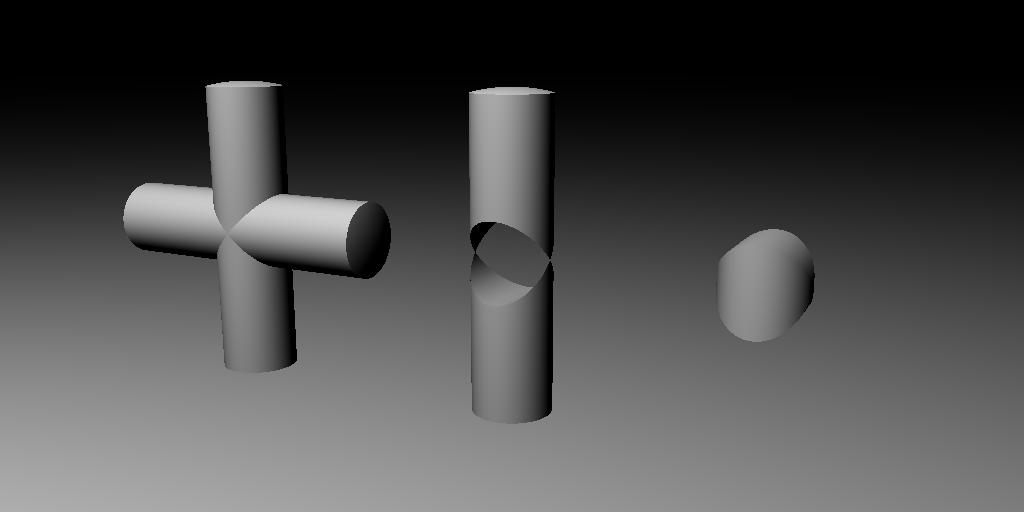
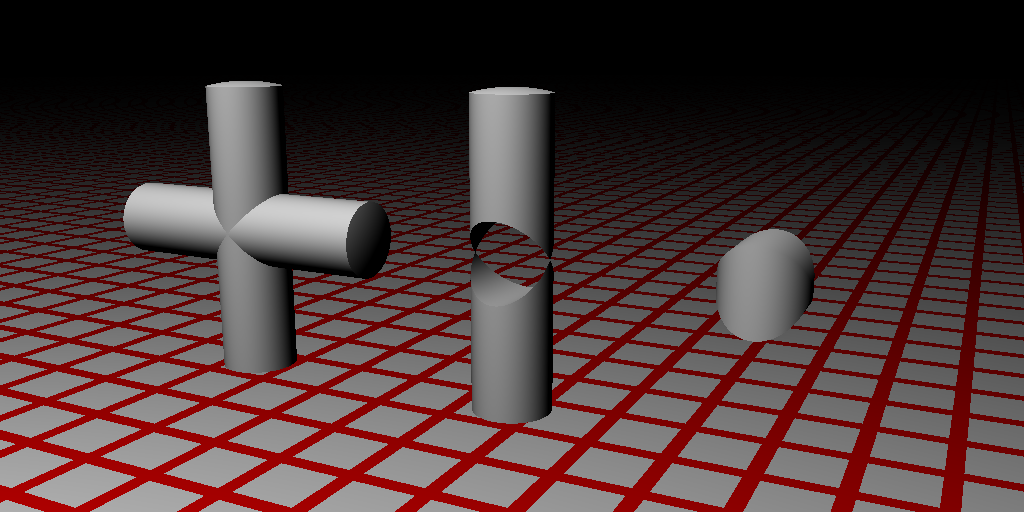
new test scene for mirror reflection, added procedural grid an checkerboard materials

Changed region(s): [[0.0, 0.2812, 1.0, 1.0]]

diff --git a/rt/src/rt/testscenes/MirrorSpheres.java b/rt/src/rt/testscenes/MirrorSpheres.java
@@ -1,0 +1,81 @@
+package rt.testscenes;
+
+import rt.*;
+import rt.cameras.*;
+import rt.films.*;
+import rt.integrators.*;
+import rt.intersectables.*;
+import rt.lightsources.*;
+import rt.materials.*;
+import rt.samplers.*;
+import rt.tonemappers.*;
+
+import javax.vecmath.*;
+
+/**
+ * Test scene for CSG cylinders and spheres.
+ */
+public class MirrorSpheres extends Scene {
+		
+	public MirrorSpheres()
+	{
+		// Output file name
+		outputFilename = new String("../output/testscenes/MirrorSpheres");
+		
+		// Image width and height in pixels
+		width = 1024;
+		height = 512;
+		
+		// Number of samples per pixel
+		SPP = 1;
+		
+		// Specify which camera, film, and tonemapper to use
+		Vector3f eye = new Vector3f(5.f, 2.5f, 10.f);
+		Vector3f lookAt = new Vector3f(0.f, 0.f, 0.f);
+		Vector3f up = new Vector3f(0.f, 1.f, 0.f);
+		float fov = 20.f;
+		float aspect = 2.f;
+		camera = new PinholeCamera(eye, lookAt, up, fov, aspect, width, height);
+		film = new BoxFilterFilm(width, height);
+		tonemapper = new ClampTonemapper();
+		
+		// Specify which integrator and sampler to use
+		integratorFactory = new WhittedIntegratorFactory();
+		samplerFactory = new OneSamplerFactory();
+		
+		// Three spheres
+		Matrix4f trafo = new Matrix4f();
+		trafo.setIdentity();
+		Sphere sphere1 = new Sphere();
+		// The BlinnPlusMirror material is a sum of Blinn and a mirror
+		// The parameters are kd, ks, shininess (for Blinn) and mirror reflectivity (for the mirror)
+		sphere1.material = new BlinnPlusMirror(new Spectrum(0.f,0.f,0.75f), new Spectrum(0.01f,0.01f,0.01f), 20.f, new Spectrum(0.5f,0.5f,0.5f));
+		trafo.setTranslation(new Vector3f(2.f,0.f,0.f));
+		
+		Sphere sphere2 = new Sphere();
+		sphere2.material = new BlinnPlusMirror(new Spectrum(0.f,0.75f,0.f), new Spectrum(0.01f,0.01f,0.01f), 20.f, new Spectrum(0.5f,0.5f,0.5f));
+		Instance sphere2Instance = new Instance(sphere2, trafo);
+		
+		trafo.setTranslation(new Vector3f(-2.f,0.f,0.f));
+		Sphere sphere3 = new Sphere();
+		sphere3.material = new BlinnPlusMirror(new Spectrum(0.75f,0.f,0.f), new Spectrum(0.01f,0.01f,0.01f), 20.f, new Spectrum(0.5f,0.5f,0.5f));
+		Instance sphere3Instance = new Instance(sphere3, trafo);
+		
+		// Ground plane
+		Plane plane = new Plane(new Vector3f(0.f, 1.f, 0.f), 1.f);
+		plane.material = new XYZCheckerboard();
+		
+		// Add objects to scene
+		IntersectableList sceneObjects = new IntersectableList();
+		sceneObjects.add(sphere1);
+		sceneObjects.add(sphere2Instance);
+		sceneObjects.add(sphere3Instance);
+		sceneObjects.add(plane);
+		root = sceneObjects;
+			
+		// Light source, relatively far away but strong
+		LightGeometry pointLight = new PointLight(new Vector3f(0.f, 20.f, 20.f), new Spectrum(2500.f, 2500.f, 2500.f));
+		lightList = new LightList();
+		lightList.add(pointLight);
+	}
+}

diff --git a/rt/src/rt/materials/XYZGrid.java b/rt/src/rt/materials/XYZGrid.java
@@ -1,0 +1,71 @@
+package rt.materials;
+
+import javax.vecmath.Vector3f;
+
+import rt.HitRecord;
+import rt.Spectrum;
+import rt.Material.ShadingSample;
+
+/**
+ * A procedural grid along the XYZ axes.
+ */
+public class XYZGrid extends Diffuse {
+
+	private float thickness;
+	private Spectrum lineColor;
+	private Spectrum tileColor;
+	private Vector3f shift;
+	private float scale;
+	
+	public XYZGrid(Spectrum lineColor, Spectrum tileColor, float thickness)
+	{
+		super(new Spectrum(1.f, 1.f, 1.f));
+		this.lineColor = lineColor;
+		this.tileColor = tileColor;
+		this.thickness = thickness;
+		this.shift = new Vector3f(0.f, 0.f, 0.f);
+		this.scale = 1.f;
+	}
+	
+	public XYZGrid(Spectrum lineColor, Spectrum tileColor, float thickness, Vector3f shift)
+	{
+		this(lineColor, tileColor, thickness);
+		this.shift = new Vector3f(shift);
+		this.scale = 1.f;
+	}
+	
+	public XYZGrid(Spectrum lineColor, Spectrum tileColor, float thickness, Vector3f shift, float scale)
+	{
+		this(lineColor, tileColor, thickness, shift);
+		this.scale = scale;
+	}
+	
+	private Spectrum getColor(HitRecord hitRecord) {
+		
+		if(Math.abs((shift.x + hitRecord.position.x)/scale - Math.round(hitRecord.position.x/scale))<thickness/scale || 
+			Math.abs((shift.y + hitRecord.position.y)/scale - Math.round(hitRecord.position.y/scale))<thickness/scale ||
+			Math.abs((shift.z + hitRecord.position.z)/scale - Math.round(hitRecord.position.z/scale))<thickness/scale )
+		{
+			return lineColor;
+		} else
+		{
+			return tileColor;
+		}
+	}
+	
+	public Spectrum evaluateBRDF(HitRecord hitRecord, Vector3f wOut, Vector3f wIn) {
+		Spectrum s = super.evaluateBRDF(hitRecord, wOut, wIn);
+		if(s!=null)
+			s.mult(getColor(hitRecord));
+		return s;
+	}
+	
+	public ShadingSample getShadingSample(HitRecord hitRecord, float[] sample)
+	{
+		ShadingSample s = super.getShadingSample(hitRecord, sample);
+		if(s!=null)
+			s.brdf.mult(getColor(hitRecord));
+		return s;
+	}
+
+}

diff --git a/rt/src/rt/materials/XYZCheckerboard.java b/rt/src/rt/materials/XYZCheckerboard.java
@@ -1,0 +1,61 @@
+package rt.materials;
+
+import javax.vecmath.Vector3f;
+
+import rt.HitRecord;
+import rt.Spectrum;
+
+/**
+ * A procedural checkerboard along the XYZ axes.
+ */
+public class XYZCheckerboard extends Diffuse {
+
+	private Spectrum color1;
+	private Spectrum color2;
+	private float scale;
+	
+	public XYZCheckerboard(Spectrum color1, Spectrum color2, float scale)
+	{
+		super(new Spectrum(1.f, 1.f, 1.f));
+		this.color1 = color1;
+		this.color2 = color2;
+		this.scale = scale;
+	}
+
+	public XYZCheckerboard()
+	{
+		super(new Spectrum(1.f, 1.f, 1.f));
+		this.color1 = new Spectrum(1.f, 1.f, 1.f);
+		this.color2 = new Spectrum(0.f, 0.f, 0.f);
+		this.scale = 1.f;
+	}
+		
+	private Spectrum getColor(HitRecord hitRecord) {
+		
+		if((Math.round(Math.abs(hitRecord.position.x)/scale) % 2 +
+			Math.round(Math.abs(hitRecord.position.y)/scale) % 2 + 
+			Math.round(Math.abs(hitRecord.position.z)/scale) % 2) % 2 == 0)
+		{
+			return color1;
+		} else
+		{
+			return color2;
+		}
+	}
+	
+	public Spectrum evaluateBRDF(HitRecord hitRecord, Vector3f wOut, Vector3f wIn) {
+		Spectrum s = super.evaluateBRDF(hitRecord, wOut, wIn);
+		if(s!=null)
+			s.mult(getColor(hitRecord));
+		return s;
+	}
+	
+	public ShadingSample getShadingSample(HitRecord hitRecord, float[] sample)
+	{
+		ShadingSample s = super.getShadingSample(hitRecord, sample);
+		if(s!=null)
+			s.brdf.mult(getColor(hitRecord));
+		return s;
+	}
+
+}

diff --git a/rt/src/rt/testscenes/BlinnSphere.java b/rt/src/rt/testscenes/BlinnSphere.java
@@ -14,9 +14,9 @@ import rt.tonemappers.*;
 /**
  * Simple scene using a Blinn material.
  */
-public class Blinn extends Scene {
+public class BlinnSphere extends Scene {
 
-	public Blinn()
+	public BlinnSphere()
 	{
 		// Output file name
 		outputFilename = new String("../output/testscenes/Blinn");
@@ -50,7 +50,7 @@ public class Blinn extends Scene {
 		Sphere sphere = new Sphere();
 		// The Blinn material expects the diffuse and specular reflection coefficients, and the shininess 
 		// exponent as its parameters
-		sphere.material = new rt.materials.Blinn(new Spectrum(.8f, 0.f, 0.f), new Spectrum(.4f, .4f, .4f), 50.f);
+		sphere.material = new rt.materials.BlinnSphere(new Spectrum(.8f, 0.f, 0.f), new Spectrum(.4f, .4f, .4f), 50.f);
 		
 		IntersectableList intersectableList = new IntersectableList();
 		intersectableList.add(groundPlane);

diff --git a/rt/src/rt/testscenes/CSGCylindersAndSpheres.java b/rt/src/rt/testscenes/CSGCylindersAndSpheres.java
@@ -1,14 +1,14 @@
 package rt.testscenes;
 
 import rt.*;
-import rt.cameras.FixedCamera;
 import rt.cameras.*;
-import rt.films.BoxFilterFilm;
+import rt.films.*;
 import rt.integrators.*;
 import rt.intersectables.*;
 import rt.lightsources.*;
-import rt.samplers.OneSamplerFactory;
-import rt.tonemappers.ClampTonemapper;
+import rt.materials.*;
+import rt.samplers.*;
+import rt.tonemappers.*;
 
 import javax.vecmath.*;
 
@@ -81,6 +81,7 @@ public class CSGCylindersAndSpheres extends Scene {
 		
 		// Ground plane
 		Plane plane = new Plane(new Vector3f(0.f, 1.f, 0.f), 2.2f);
+		plane.material = new XYZGrid(new Spectrum(1.f,0.f,0.f), new Spectrum(1.f, 1.f, 1.f), 0.1f);
 		
 		// Add objects to scene
 		IntersectableList sceneObjects = new IntersectableList();
